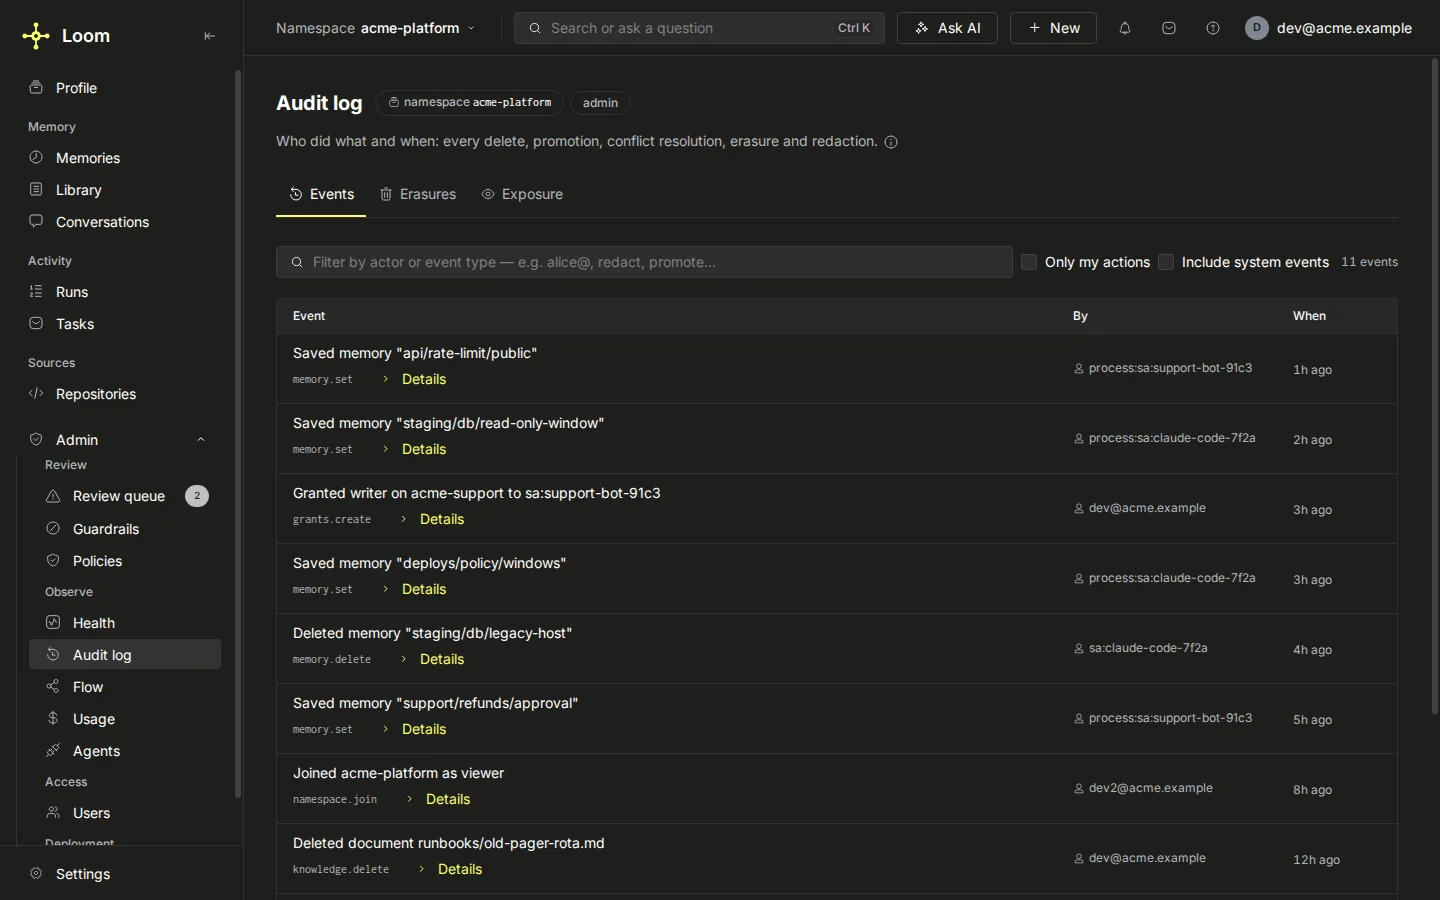
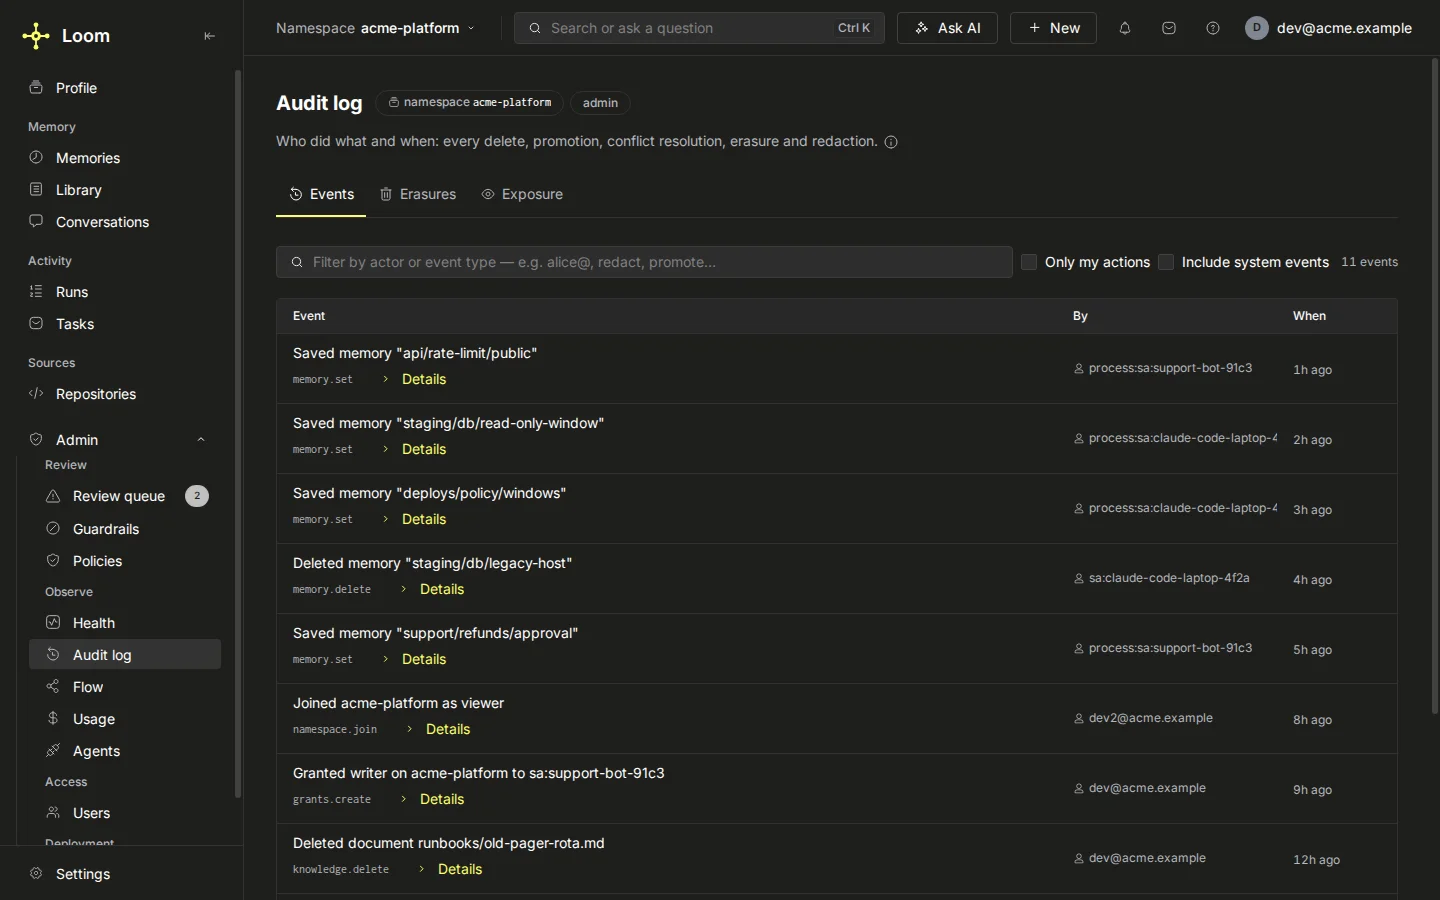
The demo audit trail holds together: the support bot writes acme-platform after its grant there, and the coding agent's subject is the token the list shows

diff --git a/frontend/e2e/docs-screenshots.spec.ts b/frontend/e2e/docs-screenshots.spec.ts
@@ -631,7 +631,7 @@ const SERVICE_ACCOUNTS = [
   {
     name: "support-bot",
     sa_subject: "sa:support-bot-91c3",
-    namespaces: [NS_SUPPORT],
+    namespaces: [NS, NS_SUPPORT],
     roles: ["writer"],
     ttl_days: 365,
     created_by: SUBJECT,
@@ -640,7 +640,7 @@ const SERVICE_ACCOUNTS = [
     revoked_at: null,
     revoked_by: "",
     last_used_at: ago(1.1),
-    ns_roles: { [NS_SUPPORT]: "writer" },
+    ns_roles: { [NS]: "writer", [NS_SUPPORT]: "writer" },
   },
 ];
 
@@ -756,7 +756,7 @@ const PASSAGES = [
   },
 ];
 
-const AGENT_SUBJECT = "sa:claude-code-7f2a";
+const AGENT_SUBJECT = "sa:claude-code-laptop-4f2a";
 const AGENT_WRITER = `process:${AGENT_SUBJECT}`;
 const BOT_WRITER = "process:sa:support-bot-91c3";
 /** The Audit log's events, with the subject fields the Audit log's labels read. A memory
@@ -765,16 +765,17 @@ const BOT_WRITER = "process:sa:support-bot-91c3";
 const AUDIT_ROWS = [
   { h: 1.5, event_type: "memory.set", actor: BOT_WRITER, subject: { memory_key: "api/rate-limit/public" } },
   { h: 2.0, event_type: "memory.set", actor: AGENT_WRITER, subject: { memory_key: "staging/db/read-only-window" } },
-  {
-    h: 3.1,
-    event_type: "grants.create",
-    actor: SUBJECT,
-    subject: { role: "writer", namespace: NS_SUPPORT, subject: "sa:support-bot-91c3" },
-  },
   { h: 3.5, event_type: "memory.set", actor: AGENT_WRITER, subject: { memory_key: "deploys/policy/windows" } },
   { h: 4.6, event_type: "memory.delete", actor: AGENT_SUBJECT, subject: { memory_key: "staging/db/legacy-host" } },
   { h: 5.0, event_type: "memory.set", actor: BOT_WRITER, subject: { memory_key: "support/refunds/approval" } },
   { h: 8.2, event_type: "namespace.join", actor: "dev2@acme.example", subject: { namespace: NS, role: "viewer" } },
+  // The support bot's writes above come after this grant of the namespace they land in.
+  {
+    h: 9.0,
+    event_type: "grants.create",
+    actor: SUBJECT,
+    subject: { role: "writer", namespace: NS, subject: "sa:support-bot-91c3" },
+  },
   { h: 12.0, event_type: "knowledge.delete", actor: SUBJECT, subject: { source_uri: "runbooks/old-pager-rota.md" } },
   {
     h: 20.0,

diff --git a/docs/features/observability/audit.md b/docs/features/observability/audit.md
@@ -9,7 +9,7 @@ seals closed hourly windows into a hash chain. A ClickHouse administrator can st
 the table; the next verifier pass shows the edit or deletion. This is an engineering
 primitive, not a compliance certification.
 
-![The dashboard's Audit log: saved memories, a grant, a deleted memory, a namespace join and a deleted document, newest first](../../assets/screenshots/audit-log.webp)
+![The dashboard's Audit log: saved memories, a deleted memory, a namespace join, a grant and a deleted document, newest first](../../assets/screenshots/audit-log.webp)
 
 ## What leaves an audit row
 
